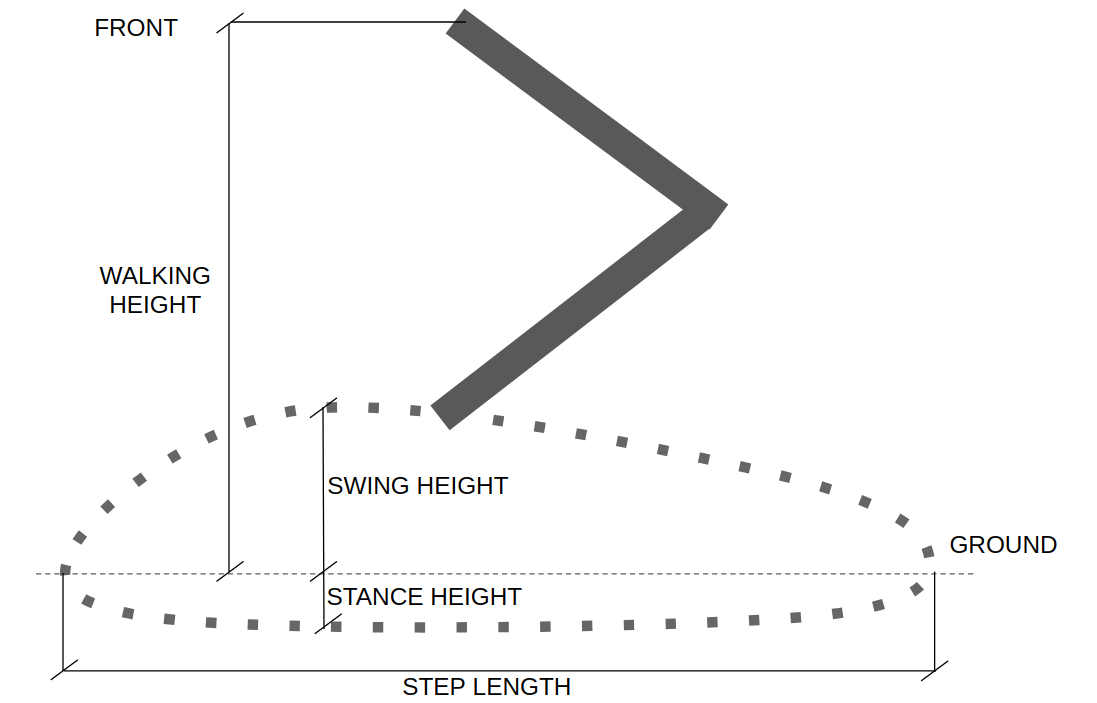
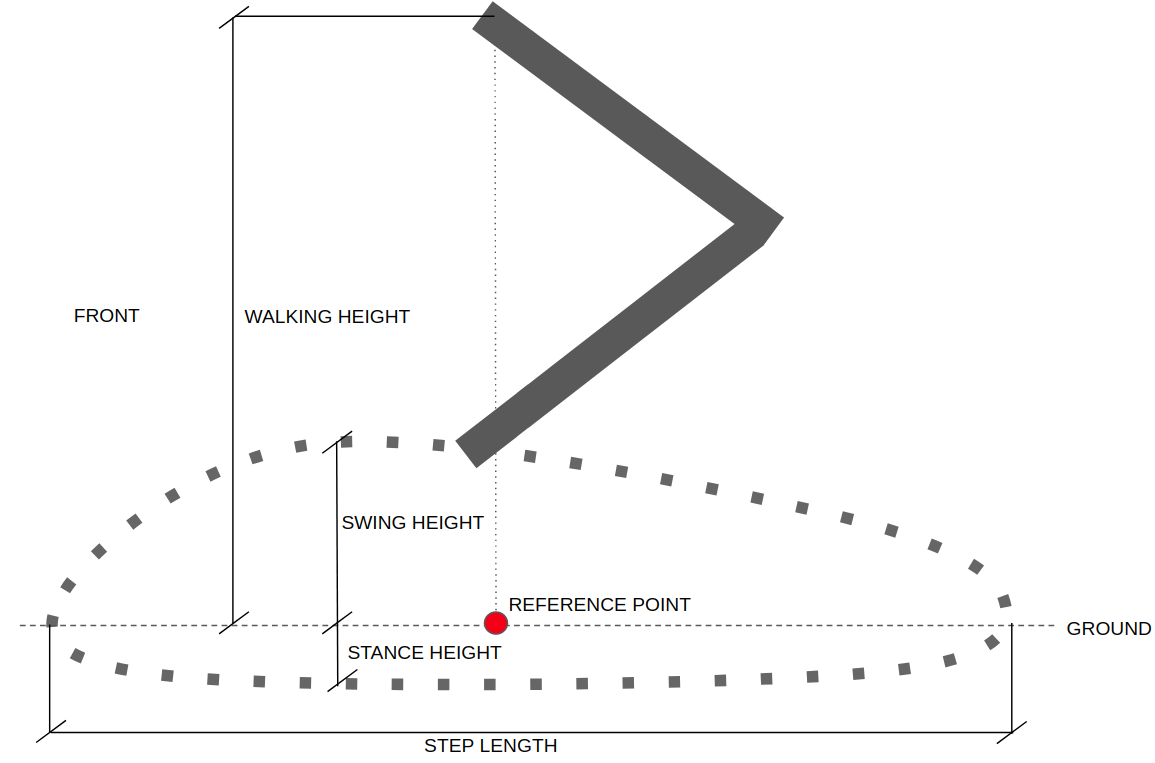
updated gait parameters

diff --git a/README.md b/README.md
@@ -92,21 +92,25 @@ Once you're done with the left-front leg, the assistant will somehow predict the
 
   Parameters:
   
-  **Knee Orientation** - How the knees should be bent. You can can configure the robot to follow the following orientation .>> .>< .<< .<> where dot is the front side of the robot.
+**Knee Orientation** - How the knees should be bent. You can can configure the robot to follow the following orientation .>> .>< .<< .<> where dot is the front side of the robot.
 
-  **Max Linear Velocity X**- Robot's maximum forward/reverse speed.
+  **Max Linear Velocity X** (meters/second) - Robot's maximum forward/reverse speed.
 
-  **Max Linear Velocity Y** - Robot's maximum speed when moving sideways.
+  **Max Linear Velocity Y** (meteres/second) - Robot's maximum speed when moving sideways.
 
-  **Max Angular Velocity Z** - Robot's maximum rotational speed.
+  **Max Angular Velocity Z** (radians/second)- Robot's maximum rotational speed.
 
-  **Stance Duration** - How long should each leg spend on the ground while walking. You can set this to default if you're not sure. This can be reconfigured later on.
+  **Stance Duration** (seconds)- How long should each leg spend on the ground while walking. You can set this to default(0.25) if you're not sure. The higher the stance duration the further the displacement is from the reference point.
 
-  **Leg Swing Height** - Trajectory height during swing phase.
+  **Leg Swing Height** (meters)- Trajectory height during swing phase.
 
-  **Leg Stance Height** - Trajectory depth during stance phase.
+  **Leg Stance Height** (meters)- Trajectory depth during stance phase.
 
-  **Robot Walking Height*** - How high shoud be the base from the ground
+  **Robot Walking Height** (meters) - Distance from hip to the ground while walking.
+
+  **COM X Translation** (meters) - You can use this parameter to move the reference point in the X axis. This is useful when you want to compensate for the weight if the center of mass is not in the middle of the robot (from front hip to rear hip). For instance, if you find that the robot is heavier at the back, you'll set a negative value to shift the reference point to the back.
+
+  **Odometry Scaler** - You can use this parameter as a multiplier to the calculated velocities for dead reckoning. This can be useful to compensate odometry errors on open-loop systems. Normally this value ranges from 1.0 to 1.20.
   
   ![CHAMP Setup Assistant](https://raw.githubusercontent.com/chvmp/champ_setup_assistant/master/docs/images/gait_parameters.png)
 
